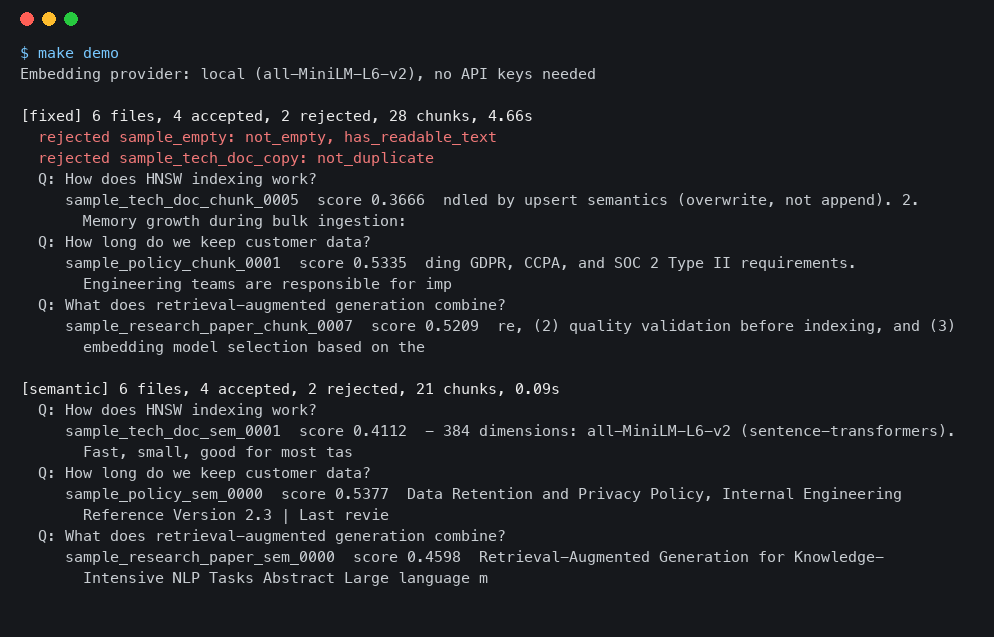
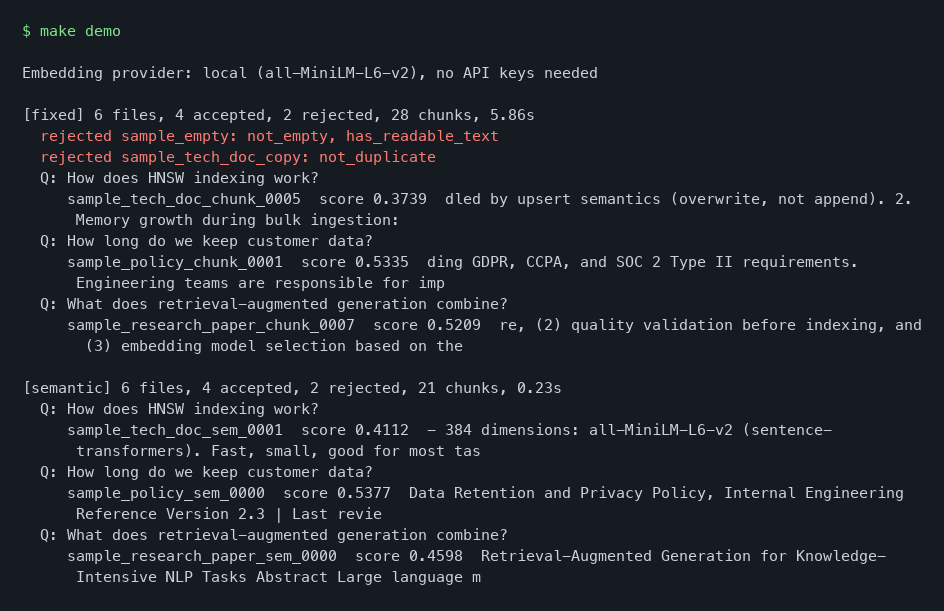
Fix README install steps and numbers, refresh demo screenshot

Changed region(s): [[0.0, 0.0, 0.9831, 0.964]]

diff --git a/README.md b/README.md
@@ -22,10 +22,10 @@ make loadtest   # /usr/bin/time -l python scripts/load_test.py --n 50000 --strat
 | Articles read | 50,000 (49,499 accepted, 501 rejected: 468 mostly symbols or numbers, 33 too short) |
 | Chunks stored | 125,136 |
 | Wall time | 695 s (11.6 min), 72 articles per second, 180 chunks per second |
-| Peak memory | 749 MB resident (`/usr/bin/time -l`), 2.0 GB macOS footprint |
+| Peak memory | 749 MB resident (`/usr/bin/time -l`) |
 | Query latency, top 5 | p50 11.9 ms, p95 15.7 ms (100 queries, after loading) |
 
-Machine: Apple M4, 16 GB, shared with other jobs while it ran; the embedding model ran on the Apple GPU (MPS). Earlier runs of the same command took 585 s and 816 s, so treat the time as one measurement, not a constant. I did not measure a CPU-only run.
+Machine: Apple M4, 16 GB, shared with other jobs; embeddings ran on the Apple GPU (MPS). Earlier runs took 585 s and 816 s, so the time is one measurement. No CPU-only run.
 
 **Chunking comparison.** 3,000 articles indexed per strategy, 1,000 questions. A question is a sentence from an article ("verbatim") or the same sentence with 40 percent of its words removed ("dropout"). A hit means a top-5 chunk from the right article that contains at least 80 percent of the sentence's words.
 
@@ -39,7 +39,7 @@ make eval       # python scripts/compare_chunking.py --docs 3000 --queries 1000
 | semantic (paragraph and sentence) | 12,823 | 0.536 | 0.679 | 0.360 | 0.519 |
 | recursive (LangChain splitter) | 17,725 | 0.554 | 0.707 | 0.350 | 0.503 |
 
-Reruns of this command moved individual numbers by about a point (the embedding model runs on the GPU), and with 1,000 questions differences of a few points are noise. The three strategies are within about 4 points of each other on every measure, so none clearly wins. Semantic gets similar hit rates with 22 percent fewer chunks to embed and store. Many misses are sentences that are not distinctive on their own, such as entries in "year in history" lists.
+Reruns of this command moved individual numbers by about 2 points (the embedding model runs on the GPU), and with 1,000 questions differences of a few points are noise. The three strategies are within about 4 points of each other on every measure, so none clearly wins. Semantic gets similar hit rates with 22 percent fewer chunks to embed and store.
 
 ## How it works
 
@@ -71,6 +71,7 @@ Each document goes through quality checks first: length, share of letters, null 
 Needs Python 3.12 or 3.13. The first run downloads the 90 MB embedding model. No API keys.
 
 ```bash
+python3.13 -m venv .venv && . .venv/bin/activate   # or python3.12
 pip install -r requirements-dev.txt
 make demo
 ```
